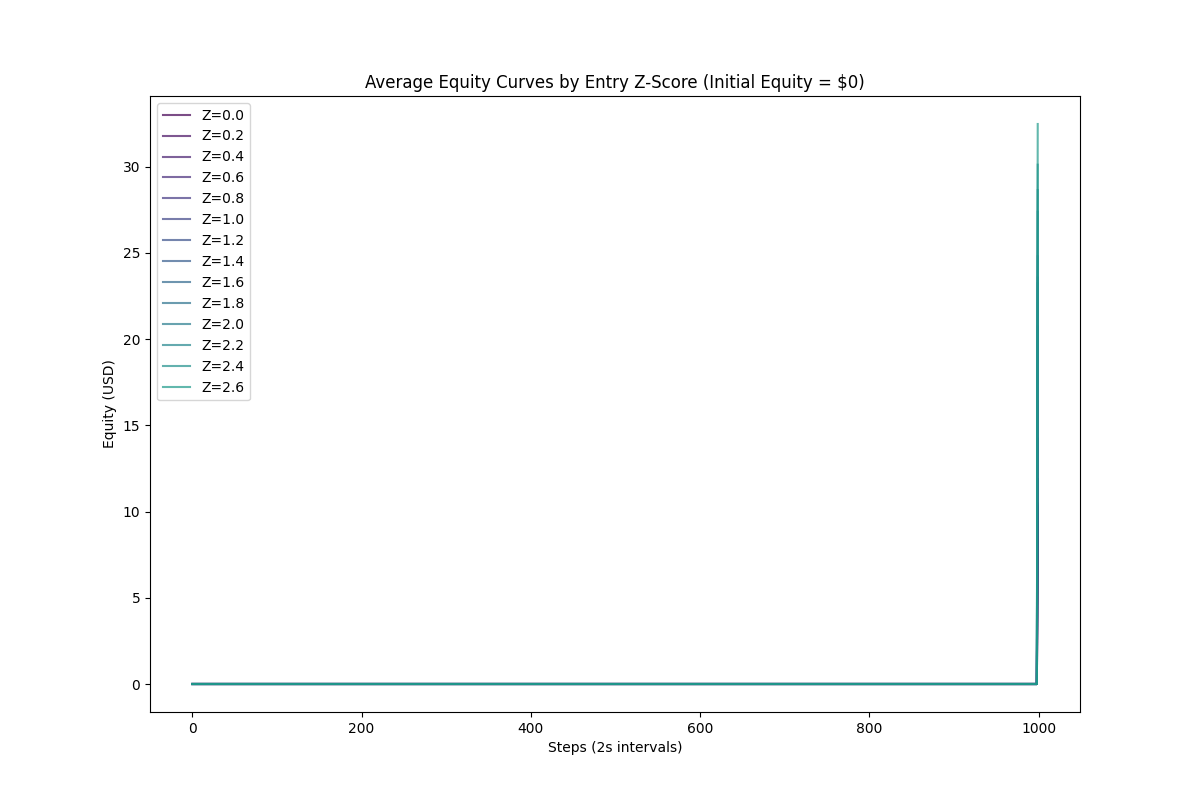
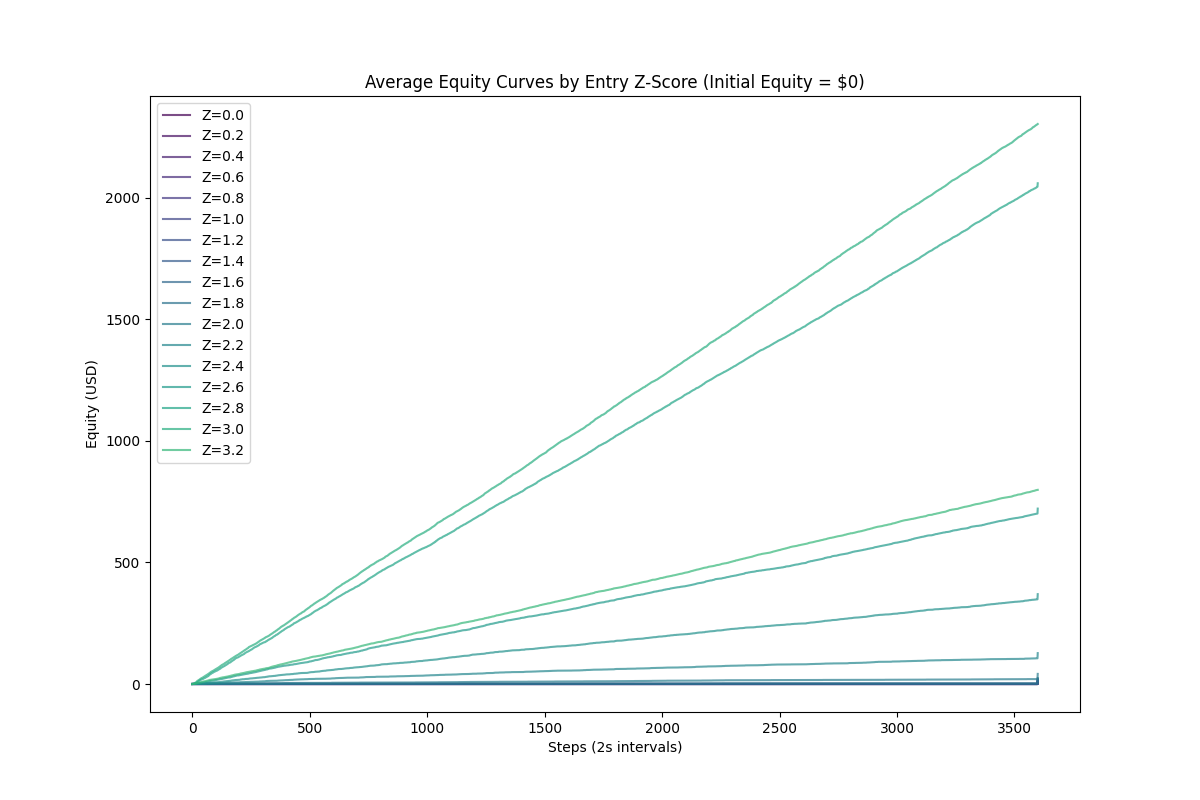
updated code
updated code and results

diff --git a/rehoboam-tools/oracle-spread/oracle-spread.py b/rehoboam-tools/oracle-spread/oracle-spread.py
@@ -51,8 +51,8 @@ LOOKBACK_PERIOD = 5720  # 2s bars
 REGRESSION_PERIOD = 7020  # 2s bars
 STOP_ZSCORE = 4.8
 RISK_REWARD_RATIO = 2.0
-N_PATHS = 100
-N_STEPS = 1000  # ~5 min at 2s
+N_PATHS = 200
+N_STEPS = 3600  # ~2hrs at 2s bars
 MIN_CORRELATION = 0.2
 MIN_COINT_PVALUE = 0.05
 BYPASS_COINT_CHECK = True
@@ -215,6 +215,7 @@ def simulate_histogram(zscores, n_steps, n_paths):
     paths = np.zeros((n_paths, n_steps))
     for t in range(n_steps):
         paths[:, t] = np.clip(np.random.choice(zscores, size=n_paths), -ZSCORE_MAX, ZSCORE_MAX)
+    print(f"Simulated Z-Score Range: Min={paths.min():.2f}, Max={paths.max():.2f}")
     return paths
 
 
@@ -291,6 +292,7 @@ def plot_results(paths, results, equity_curves, mu, entry_zscores, zscores):
     plt.ylabel("Sharpe Ratio")
     plt.title("Portfolio Effect by Entry Z-Score (2s)")
     plt.legend()
+    plt.grid()
     plt.savefig(results_dir+'\\'+SYMBOL_A+"-"+SYMBOL_B+"-portfolio_effect.png")
     plt.close()
 
@@ -302,6 +304,7 @@ def plot_results(paths, results, equity_curves, mu, entry_zscores, zscores):
     plt.title("Historical vs. Simulated Histogram Z-Score Distribution")
     plt.xlabel("Z-Score")
     plt.ylabel("Density")
+    plt.grid()
     plt.savefig(results_dir+'\\'+SYMBOL_A+"-"+SYMBOL_B+"-zscore_histogram.png")
     plt.close()
 
